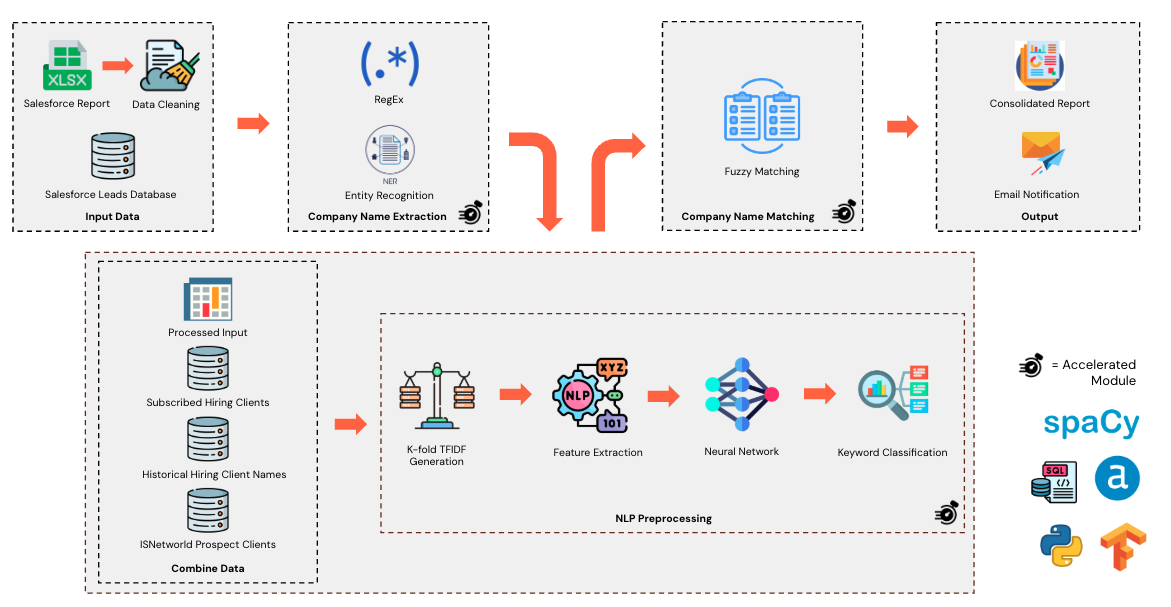
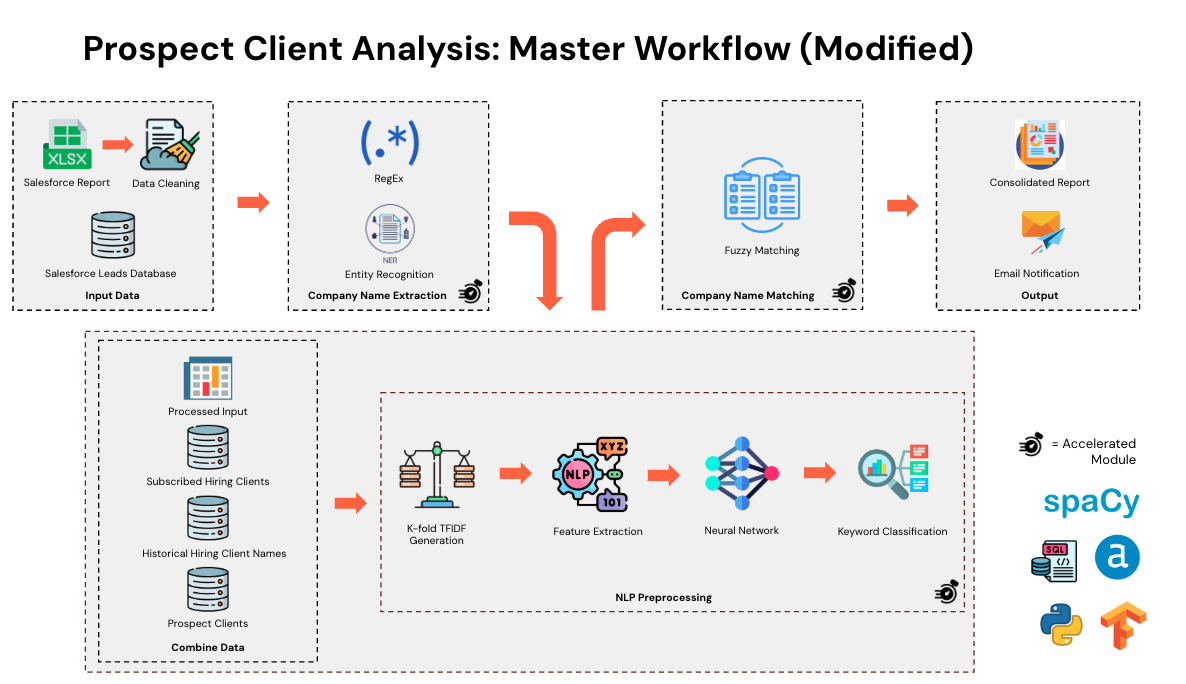
updated inm image

diff --git a/_projects/11_project.md b/_projects/11_project.md
@@ -19,4 +19,13 @@ category: research
 
 **Authors**: <a href="https://sauravdosi.github.io/">Saurav Dosi</a>
 
+<div class="row">
+    <div class="col-sm mt-3 mt-md-0">
+        {% include figure.liquid loading="eager" path="assets/img/inm.png" title="example image" class="img-fluid rounded z-depth-1" %}
+    </div>
+</div>
+<div class="caption">
+    Project Workflow.
+</div>
+
 Coming soon...
